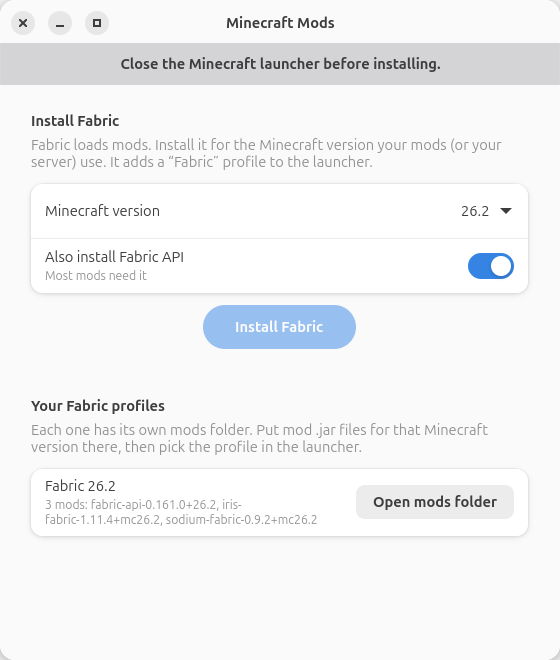
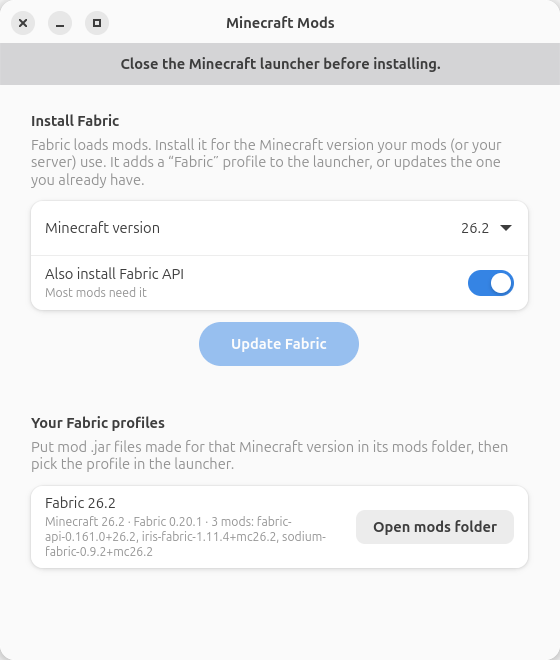
Mods app: find existing Fabric installs and update them in place
Profiles made by Fabric's own installer weren't recognized, so a second
"Fabric 26.2 (Mods app)" profile with an empty mods folder would have
been made next to the player's working one. Now every profile whose
version is fabric-loader-<loader>-<mc> is listed (with its real mods
folder, shared .minecraft/mods if it has no gameDir), the app starts on
that version, and the button becomes "Update Fabric": only the loader
(and Fabric API, if on) changes; name, folder and mods stay.

diff --git a/scripts/mods.py b/scripts/mods.py
@@ -52,6 +52,7 @@ class ModsWindow(Adw.ApplicationWindow):
         super().__init__(application=app, title="Minecraft Mods", default_width=520, default_height=600)
         fix_accent_colors()
         self.versions = []
+        self.profiles = []
         self.toast = None
         self.busy = False
 
@@ -70,12 +71,14 @@ class ModsWindow(Adw.ApplicationWindow):
         install = Adw.PreferencesGroup(
             title="Install Fabric",
             description="Fabric loads mods. Install it for the Minecraft version your "
-                        "mods (or your server) use. It adds a “Fabric” profile to the launcher.",
+                        "mods (or your server) use. It adds a “Fabric” profile to the launcher, "
+                        "or updates the one you already have.",
         )
         page.add(install)
 
         self.version_row = Adw.ComboRow(title="Minecraft version", sensitive=False)
         self.version_row.set_model(Gtk.StringList.new(["Loading…"]))
+        self.version_row.connect("notify::selected", self.update_button_label)
         install.add(self.version_row)
 
         self.api_row = Adw.SwitchRow(title="Also install Fabric API", subtitle="Most mods need it", active=True)
@@ -94,8 +97,8 @@ class ModsWindow(Adw.ApplicationWindow):
         # Installed Fabric profiles
         self.installed = Adw.PreferencesGroup(
             title="Your Fabric profiles",
-            description="Each one has its own mods folder. Put mod .jar files for that "
-                        "Minecraft version there, then pick the profile in the launcher.",
+            description="Put mod .jar files made for that Minecraft version in its mods "
+                        "folder, then pick the profile in the launcher.",
         )
         page.add(self.installed)
         self.installed_rows = []
@@ -137,13 +140,27 @@ class ModsWindow(Adw.ApplicationWindow):
             return
         self.versions = versions
         self.version_row.set_model(Gtk.StringList.new(versions))
+        # Start on the version of an existing Fabric profile, if there is one.
+        have = next((fp.mc for fp in self.profiles if fp.mc in versions), None)
+        if have:
+            self.version_row.set_selected(versions.index(have))
         self.version_row.set_sensitive(True)
+        self.update_button_label()
         self.check_launcher()
+
+    def selected_version(self):
+        i = self.version_row.get_selected()
+        return self.versions[i] if self.versions and 0 <= i < len(self.versions) else None
+
+    def update_button_label(self, *_args):
+        mc = self.selected_version()
+        existing = mc and any(fp.mc == mc for fp in self.profiles)
+        self.install_button.set_label("Update Fabric" if existing else "Install Fabric")
 
     # --- install ------------------------------------------------------
 
     def on_install(self, _button):
-        mc = self.versions[self.version_row.get_selected()]
+        mc = self.selected_version()
         self.busy = True
         self.install_button.set_sensitive(False)
         self.version_row.set_sensitive(False)
@@ -157,11 +174,17 @@ class ModsWindow(Adw.ApplicationWindow):
         if error:
             self.status.set_text(error)
             return
-        name, _mods_dir = result
-        self.status.set_text(f"Done. In the Minecraft launcher, pick “{name}” and press Play.")
-        self.toast = Adw.Toast(title=f"{name} is ready")
+        name, _mods_dir, updated = result
+        if updated:
+            self.status.set_text(f"Updated “{name}”. Your mods and worlds are still there.\n"
+                                 "In the Minecraft launcher, pick it and press Play.")
+            self.toast = Adw.Toast(title=f"{name} is up to date")
+        else:
+            self.status.set_text(f"Done. In the Minecraft launcher, pick “{name}” and press Play.")
+            self.toast = Adw.Toast(title=f"{name} is ready")
         self.toasts.add_toast(self.toast)
         self.refresh_installed()
+        self.update_button_label()
 
     # --- installed profiles -------------------------------------------
 
@@ -169,18 +192,20 @@ class ModsWindow(Adw.ApplicationWindow):
         for row in self.installed_rows:
             self.installed.remove(row)
         self.installed_rows = []
-        profiles = mcmods.fabric_profiles()
+        self.profiles = profiles = mcmods.fabric_profiles()
         if not profiles:
             row = Adw.ActionRow(title="None yet")
             self.installed.add(row)
             self.installed_rows.append(row)
-        for mc, mods_dir in profiles:
-            jars = sorted(p.name for p in mods_dir.glob("*.jar")) if mods_dir.is_dir() else []
-            names = ", ".join(j[:-4] for j in jars)
-            row = Adw.ActionRow(title=f"Fabric {mc}",
-                                subtitle=f"{len(jars)} mod{'s' if len(jars) != 1 else ''}: {names}" if jars else "No mods yet")
+        for fp in profiles:
+            jars = sorted(p.name for p in fp.mods_dir.glob("*.jar")) if fp.mods_dir.is_dir() else []
+            mods = (f"{len(jars)} mod{'s' if len(jars) != 1 else ''}: " + ", ".join(j[:-4] for j in jars)
+                    if jars else "no mods yet")
+            row = Adw.ActionRow(title=GLib.markup_escape_text(fp.name),
+                                subtitle=GLib.markup_escape_text(
+                                    f"Minecraft {fp.mc} · Fabric {fp.loader} · {mods}"))
             button = Gtk.Button(label="Open mods folder", valign=Gtk.Align.CENTER)
-            button.connect("clicked", self.open_folder, mods_dir)
+            button.connect("clicked", self.open_folder, fp.mods_dir)
             row.add_suffix(button)
             self.installed.add(row)
             self.installed_rows.append(row)

diff --git a/scripts/mcmods.py b/scripts/mcmods.py
@@ -118,26 +118,60 @@ def launcher_running():
     return False
 
 
+FABRIC_VERSION_RE = re.compile(r"^fabric-loader-([0-9A-Za-z.+_-]+?)-([0-9][0-9A-Za-z.+_-]*)$")
+
+
+class FabricProfile:
+    """A launcher profile that runs Fabric, whoever made it.
+
+    Fabric's own installer names its versions fabric-loader-<loader>-<mc>,
+    the same as this app, so that is how they're recognized.
+    """
+
+    def __init__(self, key, entry):
+        match = FABRIC_VERSION_RE.match(entry.get("lastVersionId", ""))
+        self.key = key
+        self.name = entry.get("name") or f"Fabric {match.group(2)}"
+        self.loader, self.mc = match.group(1), match.group(2)
+        game_dir = entry.get("gameDir")
+        if not game_dir:  # no game folder of its own: the shared .minecraft
+            self.game_dir = stable_dot_minecraft()
+        elif os.path.isabs(game_dir):
+            self.game_dir = Path(game_dir)
+        else:
+            self.game_dir = stable_dot_minecraft() / game_dir
+        self.mods_dir = self.game_dir / "mods"
+        self.ours = key.startswith(PROFILE_KEY.format(mc=""))
+
+
 def fabric_profiles():
-    """Fabric profiles this app made: list of (minecraft version, mods folder)."""
+    """Every Fabric profile in the launcher, newest Minecraft first."""
     try:
         with open(dot_minecraft() / "launcher_profiles.json") as f:
             profiles = json.load(f).get("profiles", {})
     except (OSError, ValueError):
         return []
-    found = []
-    prefix = PROFILE_KEY.format(mc="")
-    for key, p in profiles.items():
-        if key.startswith(prefix) and p.get("gameDir"):
-            found.append((key[len(prefix):], Path(p["gameDir"]) / "mods"))
-    return sorted(found, reverse=True)
+    found = [FabricProfile(k, p) for k, p in profiles.items()
+             if isinstance(p, dict) and FABRIC_VERSION_RE.match(p.get("lastVersionId", ""))]
+
+    def version_key(fp):
+        return [int(x) if x.isdigit() else -1 for x in re.split(r"[.-]", fp.mc)]
+    return sorted(found, key=lambda fp: (version_key(fp), fp.ours), reverse=True)
+
+
+def fabric_profile_for(mc):
+    """The profile to update for Minecraft `mc`: this app's, else any other."""
+    matches = [fp for fp in fabric_profiles() if fp.mc == mc]
+    return next((fp for fp in matches if fp.ours), matches[0] if matches else None)
 
 
 def install_fabric(mc, with_fabric_api=True, progress=lambda text: None):
     """Install the newest stable Fabric for Minecraft `mc`.
 
-    Returns (profile name, mods folder). Safe to run again: it updates the
-    loader and keeps the profile's mods and settings.
+    If a Fabric profile for `mc` already exists (made by this app or by
+    Fabric's own installer), that profile is updated instead: same name,
+    same game folder, same mods. Otherwise a new profile gets its own game
+    folder. Returns (profile name, mods folder, updated: bool).
     """
     mc = _check_version(mc)
     dot = dot_minecraft()
@@ -159,28 +193,34 @@ def install_fabric(mc, with_fabric_api=True, progress=lambda text: None):
     vdir.mkdir(parents=True, exist_ok=True)
     _write_json(vdir / f"{vid}.json", profile_json)
 
-    game_dir = stable_dot_minecraft() / "profiles" / f"fabric-{mc}"
-    mods_dir = game_dir / "mods"
-    mods_dir.mkdir(parents=True, exist_ok=True)
-
     with open(profiles_path) as f:
         launcher_profiles = json.load(f)
     shutil.copy2(profiles_path, profiles_path.with_name("launcher_profiles.json.bak-mods"))
     profiles = launcher_profiles.setdefault("profiles", {})
-    key = PROFILE_KEY.format(mc=mc)
-    names = {p.get("name") for k, p in profiles.items() if k != key}
-    name = f"Fabric {mc}" if f"Fabric {mc}" not in names else f"Fabric {mc} (Mods app)"
     now = datetime.datetime.now(datetime.timezone.utc).strftime("%Y-%m-%dT%H:%M:%S.000Z")
-    entry = profiles.get(key, {"created": now, "icon": "Furnace"})
-    entry.update(name=name, type="custom", lastVersionId=vid, gameDir=str(game_dir), lastUsed=now)
-    profiles[key] = entry
+
+    existing = fabric_profile_for(mc)
+    if existing:
+        # Only the loader changes; name, game folder and mods stay as they are.
+        profiles[existing.key]["lastVersionId"] = vid
+        name, mods_dir = existing.name, existing.mods_dir
+    else:
+        game_dir = stable_dot_minecraft() / "profiles" / f"fabric-{mc}"
+        mods_dir = game_dir / "mods"
+        names = {p.get("name") for p in profiles.values() if isinstance(p, dict)}
+        name = f"Fabric {mc}" if f"Fabric {mc}" not in names else f"Fabric {mc} (Mods app)"
+        profiles[PROFILE_KEY.format(mc=mc)] = {
+            "created": now, "icon": "Furnace", "name": name, "type": "custom",
+            "lastVersionId": vid, "gameDir": str(game_dir), "lastUsed": now,
+        }
+    mods_dir.mkdir(parents=True, exist_ok=True)
     _write_json(profiles_path, launcher_profiles)
 
     if with_fabric_api:
         progress("Installing Fabric API…")
         install_modrinth_project("fabric-api", mc, mods_dir)
 
-    return name, mods_dir
+    return name, mods_dir, bool(existing)
 
 
 # --- Modrinth -------------------------------------------------------------

diff --git a/tools/mods-shots.py b/tools/mods-shots.py
@@ -89,7 +89,7 @@ def run(app):
         wait_for(lambda: win.status.get_text().startswith("Done"), shot_done)
 
     def shot_done():
-        mods_dir = mcmods.fabric_profiles()[0][1]
+        mods_dir = mcmods.fabric_profiles()[0].mods_dir
         for project in ("sodium", "iris"):
             mcmods.install_modrinth_project(project, MC, mods_dir)
         win.refresh_installed()

diff --git a/README.md b/README.md
@@ -22,7 +22,7 @@ Mods need a mod loader; putting `.jar` files in the mods folder isn't enough on 
 3. Press **Open mods folder** and put mods for that version there. Only download mods from sites you trust, such as [Modrinth](https://modrinth.com).
 4. In the launcher, pick the **Fabric** profile and press Play.
 
-Each Fabric profile has its own game folder (`~/snap/mc-installer/current/.minecraft/profiles/fabric-<version>/`), with its own mods, settings and worlds, so mods for one Minecraft version never load on another.
+A new Fabric profile gets its own game folder (`~/snap/mc-installer/current/.minecraft/profiles/fabric-<version>/`), with its own mods, settings and worlds, so mods for one Minecraft version never load on another. Already have Fabric for that version (from Fabric's own installer, say)? The app finds it, shows its mods, and updates it in place instead of making a second one.
 
 Playing on a server with mods? Install Fabric for the server's Minecraft version, then add the mods the server owner says players need. More help is on the [wiki](https://github.com/kz6fittycent/mc-installer/wiki/Mods).
 
